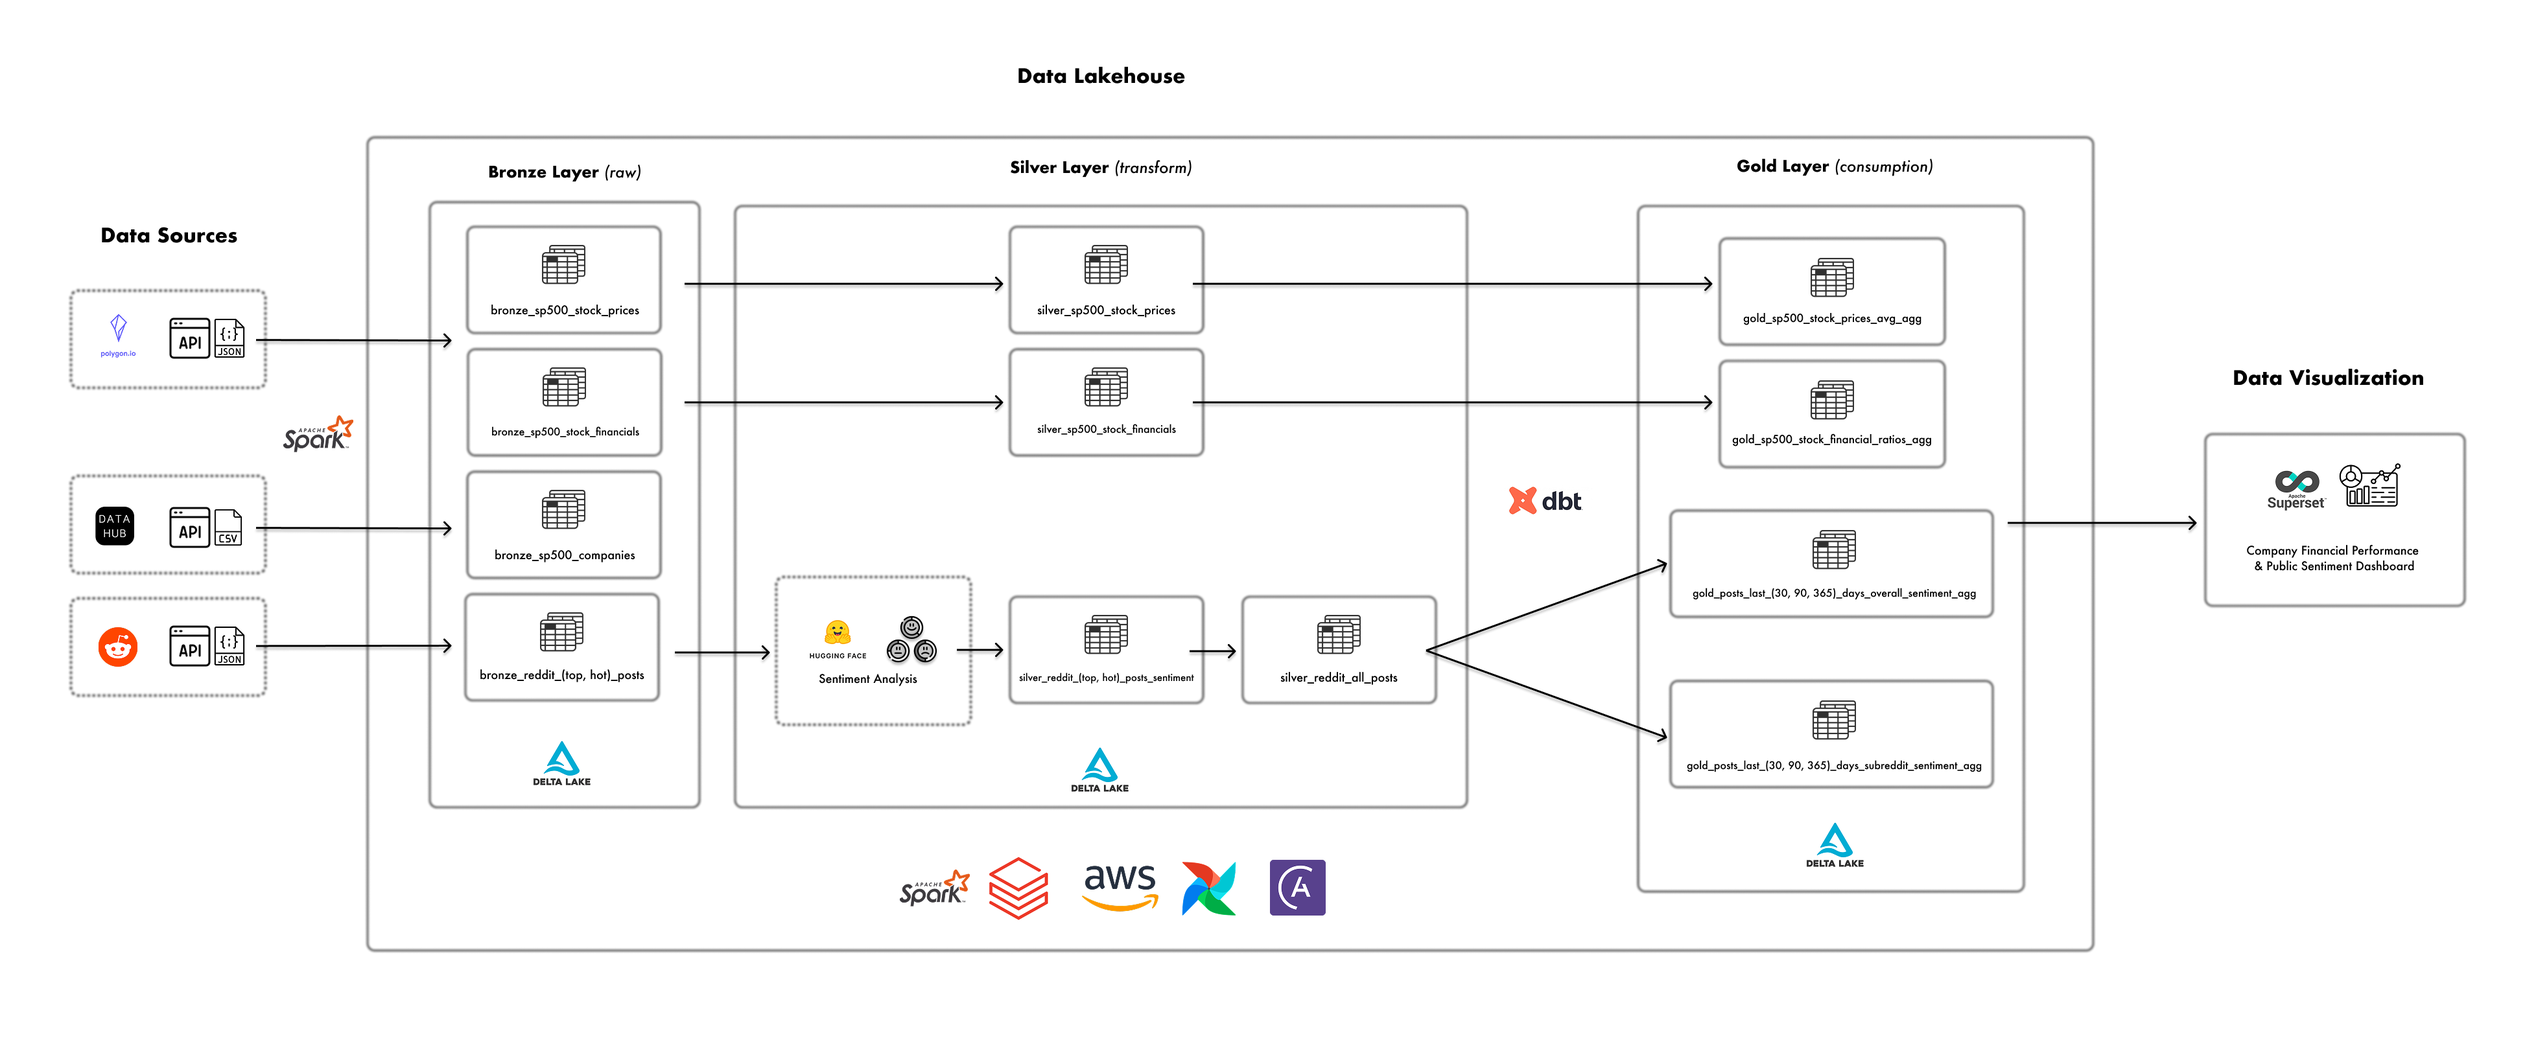
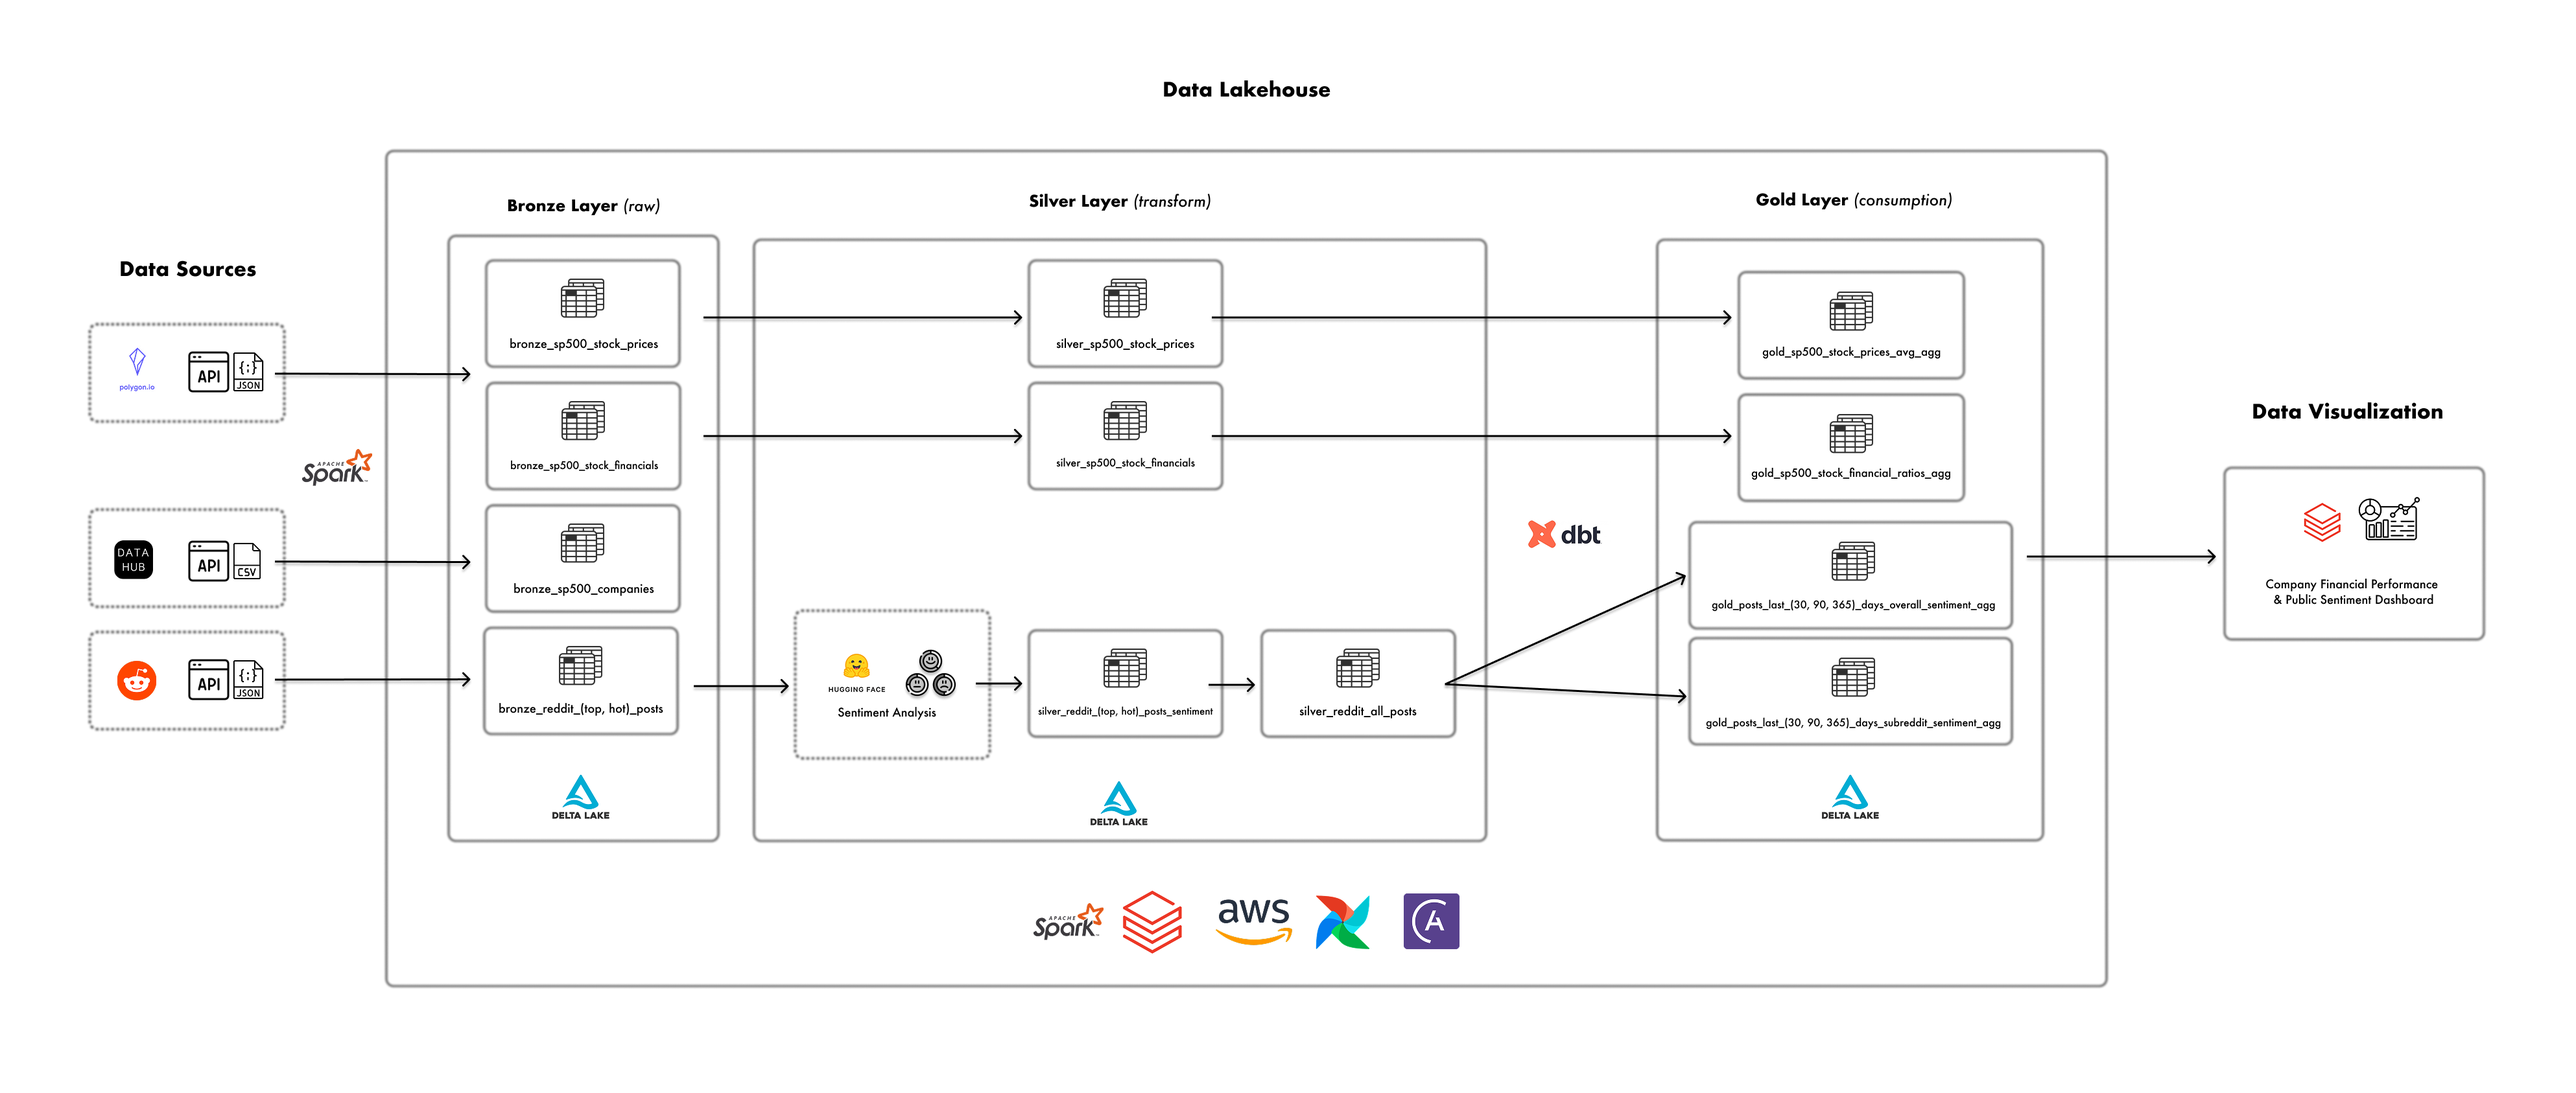
Update project docs

diff --git a/README.md b/README.md
@@ -1,4 +1,4 @@
-![Market Pulse Logo](./docs/market-pulse-logo.png)
+**![Market Pulse Logo](./docs/market-pulse-logo.png)
 
 
 ## Problem Statement
@@ -26,10 +26,13 @@ to gather information about a prospective company they may want to invest in.
 - **Processing:** Databricks, Hugging Face, Apache Spark, dbt
 - **Orchestration:** Astronomer/Airflow
 - **DevOps:** GitHub, GitHub Actions
-- **Data Visualization:** Apache Superset
+- **Data Visualization:** Databricks Dashboards
 
 ## Conceptual Data Model
-![Conceptual Data Model Diagra ](./docs/conceptual-data-model.png)
+![Conceptual Data Model Diagram](./docs/conceptual-data-model.png)
+
+## Dashboard
+![Market Pulse Dashboard](./docs/market_pulse_dashboard.jpeg)
 
 # Challenges
 - The Reddit API has a rate limit of 100 queries per minute (QPM) per OAuth client ID for
@@ -38,3 +41,4 @@ their Free tier which caused issues with extracting Reddit posts data
 # Future Enhancements
 1. Source data from addtional social media networks (e.g. Twitter, Blue Sky, etc.) for more comprehensive sentiment analysis
 2. Add posts data from additional stock/investing related subreddits
+**
